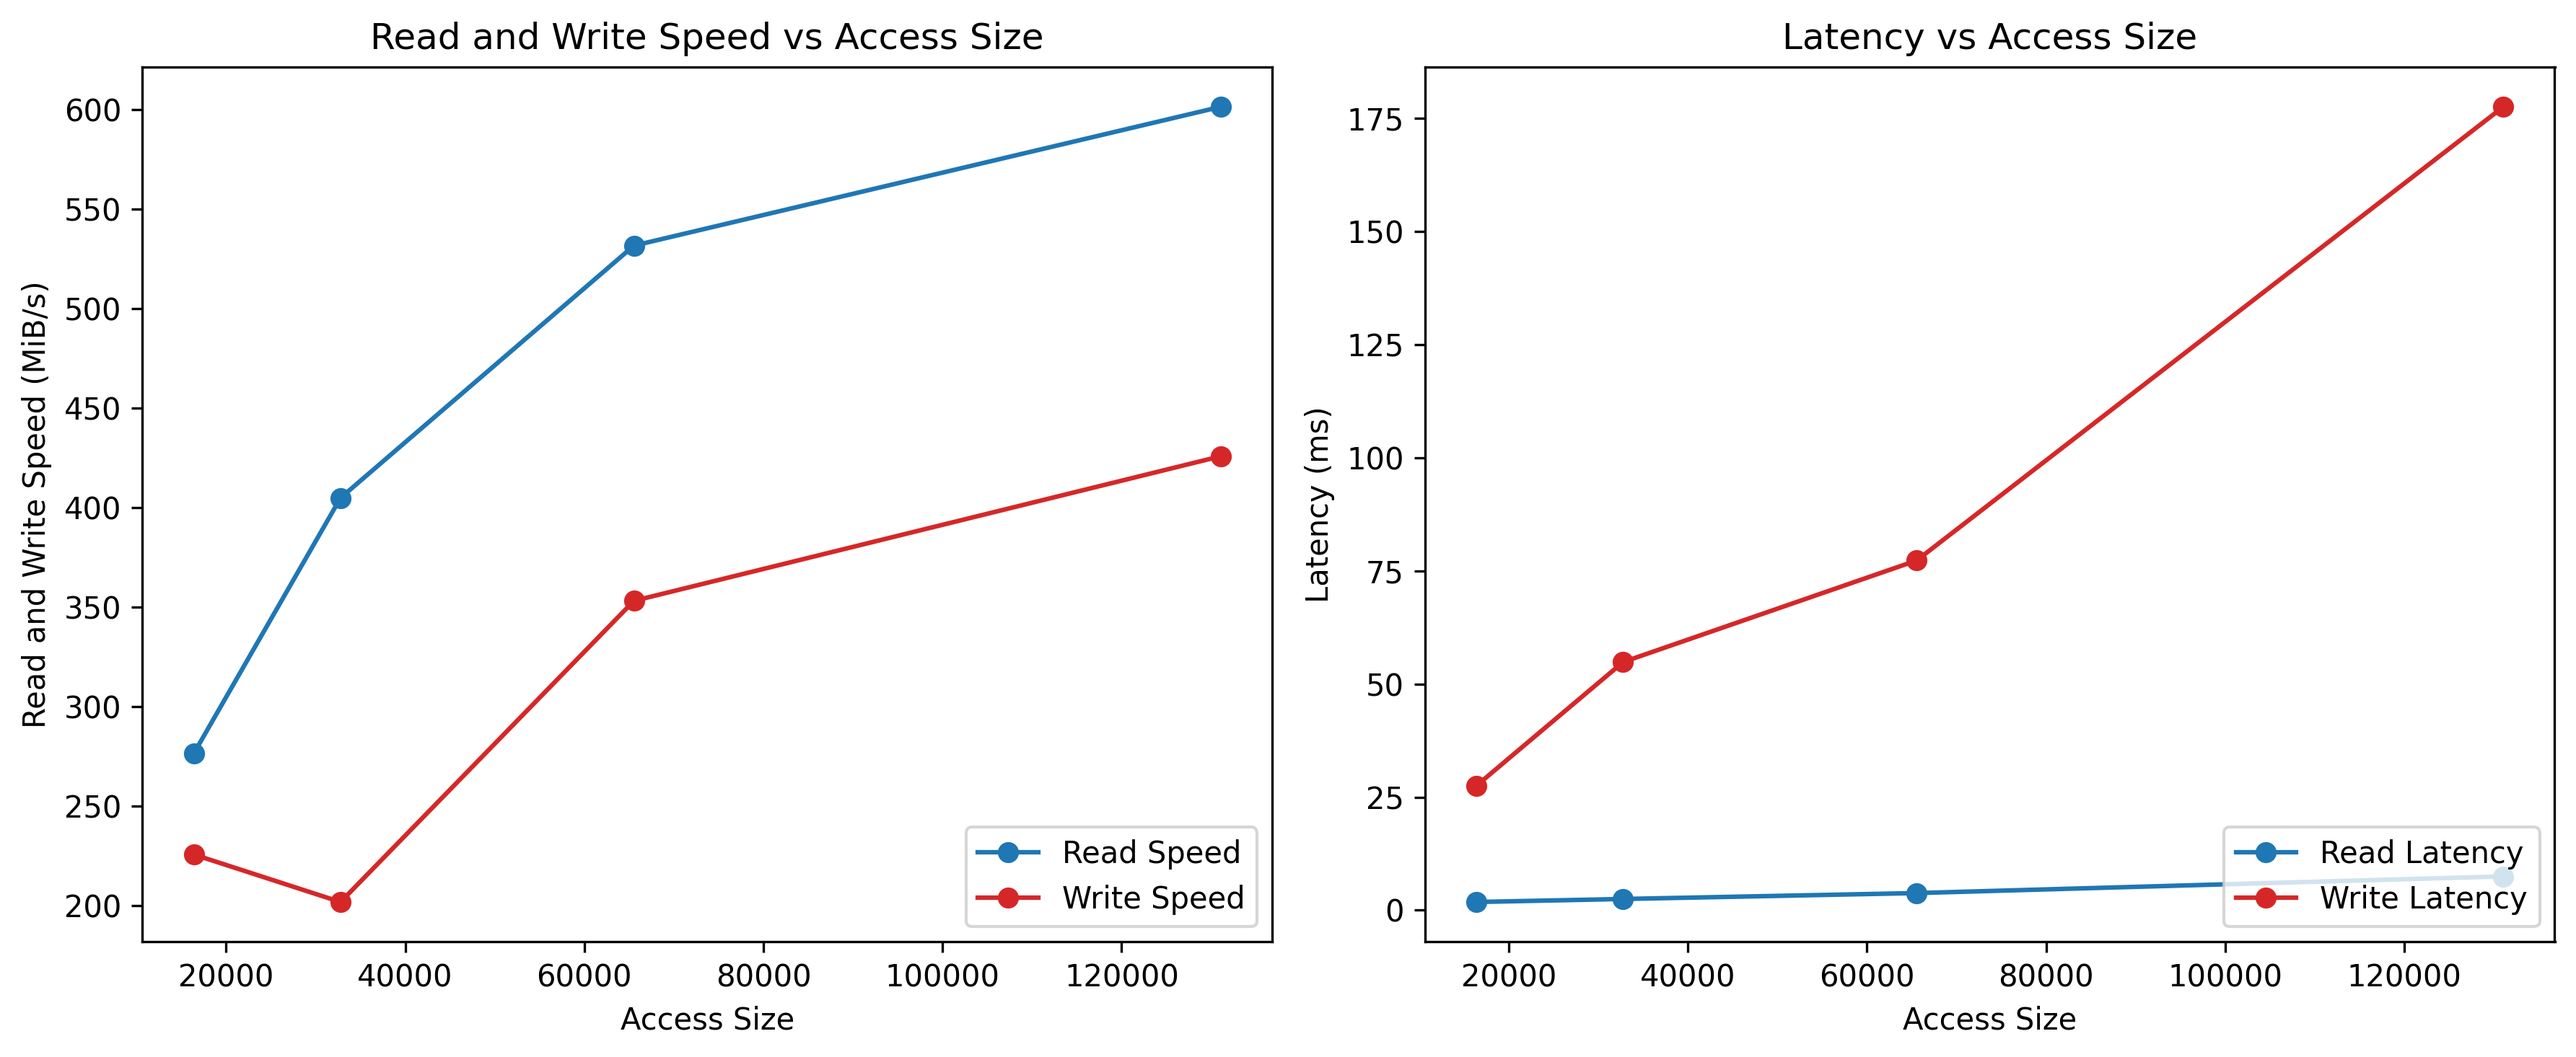
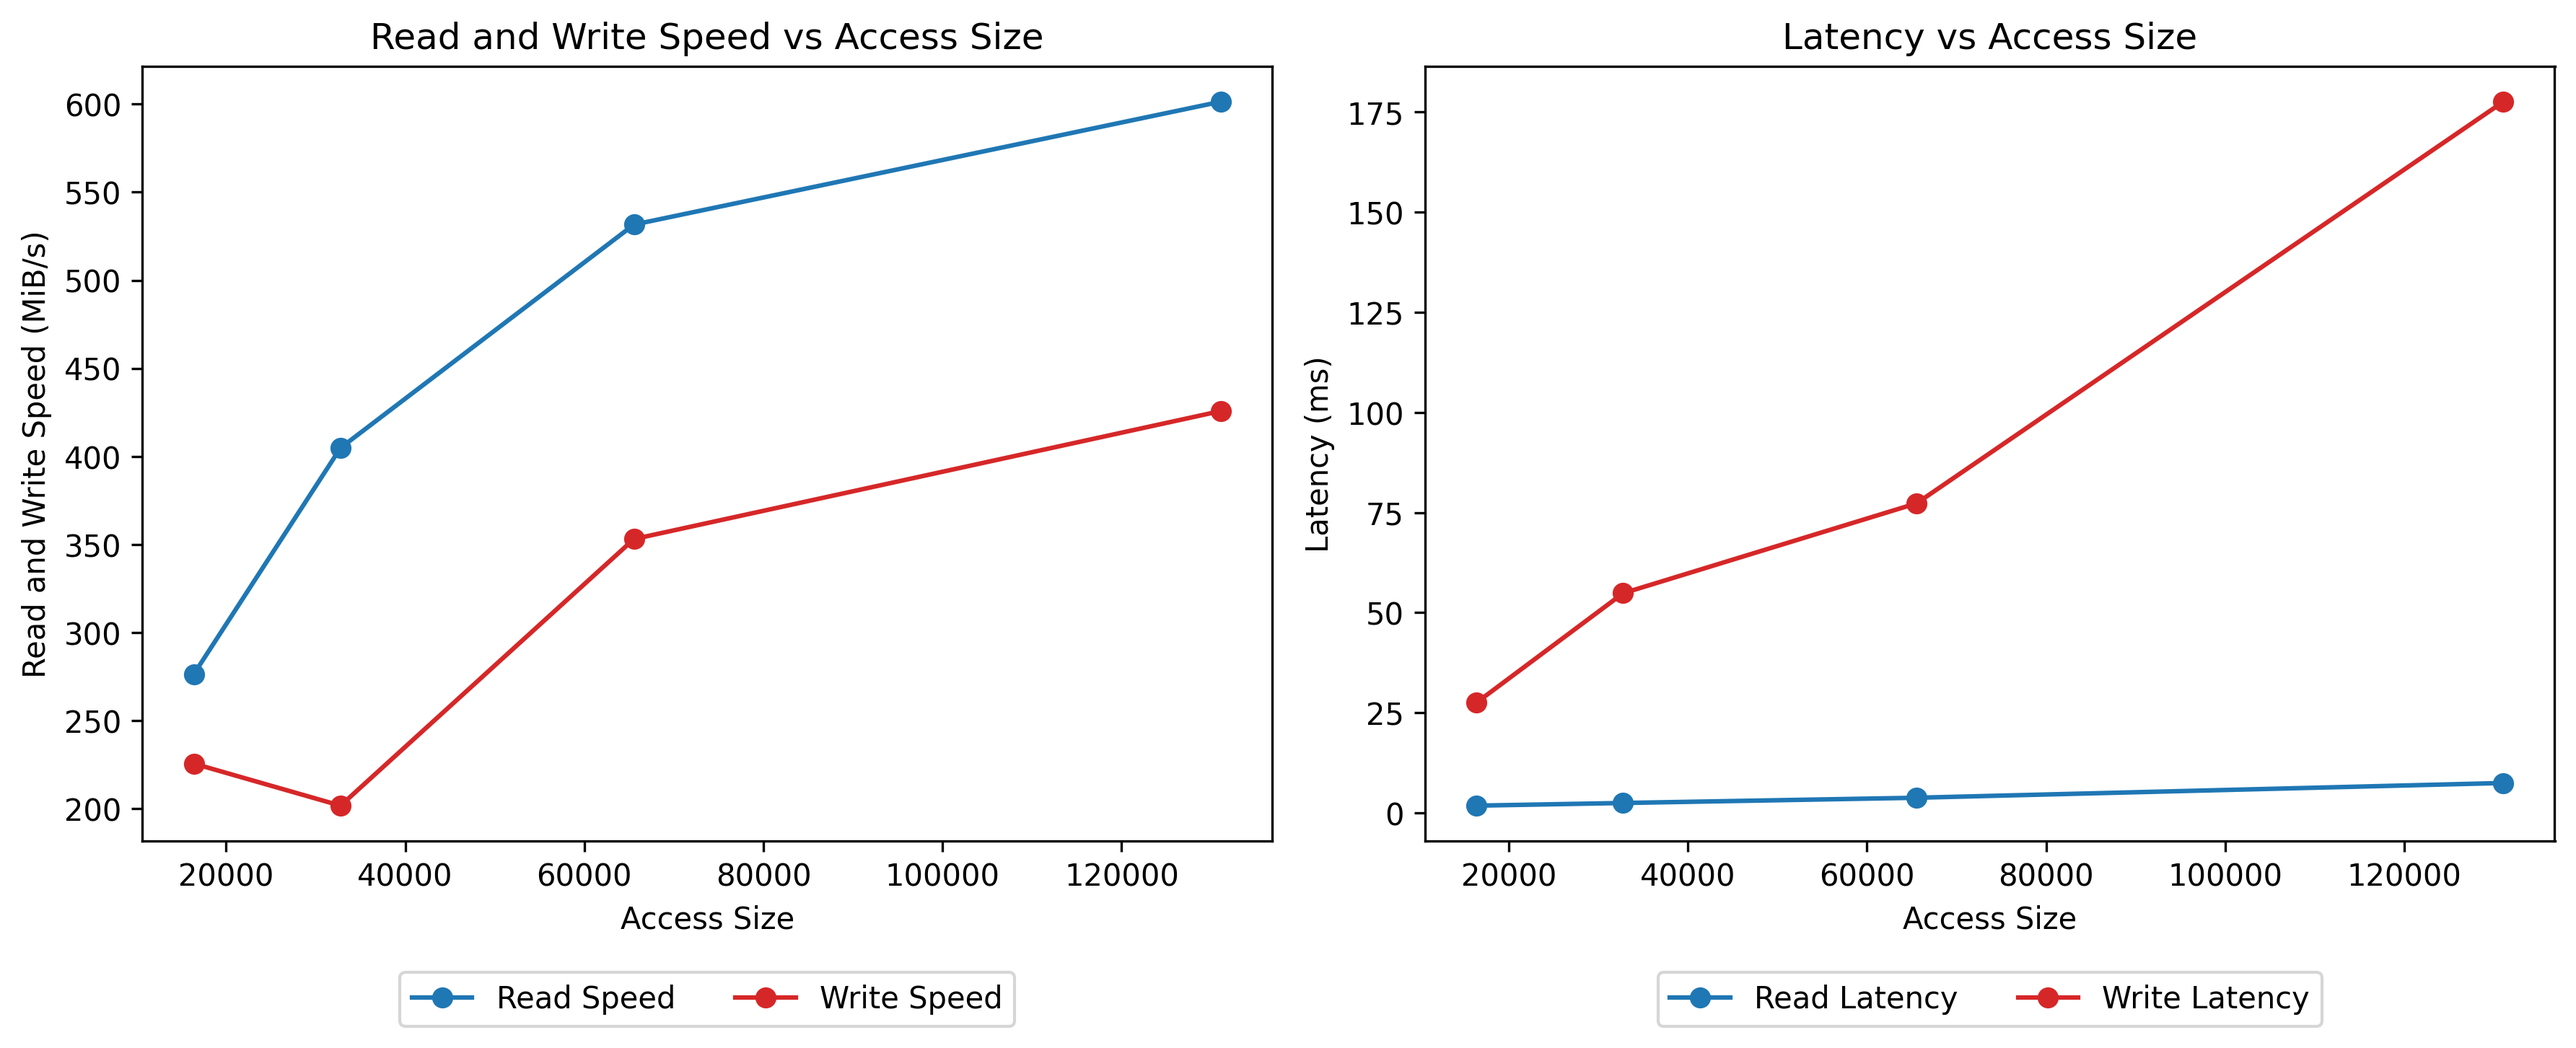
Updated README.md for MatrixMultiplication and SSD-Profling

diff --git a/SSD-Profiling/graph.py b/SSD-Profiling/graph.py
@@ -17,8 +17,8 @@ if __name__ == "__main__":
     x = data[x_header]
     y1 = data['Read Speed']
     y2 = data['Write Speed']
-    y1_2 = data['Read Latency'] / 1e6  # Convert to ms from ns
-    y2_2 = data['Write Latency'] / 1e6 # Convert to ms from ns
+    y1_2 = data['Read Latency']/1e6  # Convert to ms from ns
+    y2_2 = data['Write Latency']/1e6 # Convert to ms from ns
 
     if sys.argv[1].strip() == "plot_both":
         # Create a figure and two subplots horizontally
@@ -30,8 +30,10 @@ if __name__ == "__main__":
         ax1.plot(x, y1, label='Read Speed', color='tab:blue', marker='o')
         ax1.plot(x, y2, label='Write Speed', color='tab:red',  marker='o')
         ax1.tick_params(axis='y')
-        ax1.legend(loc='lower right')
         ax1.set_title('Read and Write Speed vs ' + x_header)
+
+        # Move legend below the first subplot
+        ax1.legend(loc='upper center', bbox_to_anchor=(0.5, -0.15), ncol=2)
 
         # Plot on the second subplot (Latency)
         ax2.set_xlabel(x_header)
@@ -39,8 +41,10 @@ if __name__ == "__main__":
         ax2.plot(x, y1_2, label='Read Latency', color='tab:blue', marker='o')
         ax2.plot(x, y2_2, label='Write Latency', color='tab:red', marker='o')
         ax2.tick_params(axis='y')
-        ax2.legend(loc='lower right')
         ax2.set_title('Latency vs ' + x_header)
+
+        # Move legend below the second subplot
+        ax2.legend(loc='upper center', bbox_to_anchor=(0.5, -0.15), ncol=2)
 
         # Adjust layout to avoid overlapping
         plt.tight_layout()
@@ -51,7 +55,7 @@ if __name__ == "__main__":
         # Optionally, you can clear the figure
         plt.close(fig)
 
-    elif sys.argv[1].strip() == "combine_both":
+    elif sys.argv[1].strip() == "combine_rw":
         # Create a figure with two subplots (1 row, 2 columns)
         fig, (ax1, ax2) = plt.subplots(1, 2, figsize=(12, 6))
 
@@ -69,15 +73,12 @@ if __name__ == "__main__":
         ax2.tick_params(axis='y')
         ax2.set_title('Read/Write Latency')
 
-        # Set a common title for the figure
-        fig.suptitle(x_header + ' vs Speed and Latency Metrics')
-
-        # Add legends below each subplot
-        ax1.legend(loc='upper left')
-        ax2.legend(loc='upper left')
+        # Add legends at the center of each subplot
+        ax1.legend(loc='upper center', bbox_to_anchor=(0.5, -0.15), ncol=1)
+        ax2.legend(loc='upper center', bbox_to_anchor=(0.5, -0.15), ncol=1)
 
         # Adjust layout to prevent overlapping
-        plt.tight_layout(rect=[0, 0, 1, 0.95])
+        plt.tight_layout(rect=[0, 0, 1, 0.85])  # Adjust the rect to provide space for legends
 
         # Save the plot as an image file (e.g., PNG format)
         plt.savefig('plot.png', format='png', dpi=300, bbox_inches='tight')

diff --git a/SSD-Profiling/README.md b/SSD-Profiling/README.md
@@ -1,4 +1,28 @@
-# SSD Profiling Project
+## SSD Profiling Project
+
+## Table of Contents
+- [SSD Profiling Project](#ssd-profiling-project)
+- [Table of Contents](#table-of-contents)
+- [Project Highlights](#project-highlights)
+- [Overview](#overview)
+- [FIO Tool Background](#fio-tool-background)
+- [Key FIO Command Line Options for this Project](#key-fio-command-line-options-for-this-project)
+- [Experiment 1: Impact of Data Access Size](#experiment-1-impact-of-data-access-size)
+  - [FIO Configuration Overview](#fio-configuration-overview)
+  - [Experimental Results](#experimental-results)
+  - [Key Analysis](#key-analysis)
+- [Experiment 2: Impact of Read/Write Intensity](#experiment-2-impact-of-readwrite-intensity)
+  - [FIO Configuration Overview](#fio-configuration-overview-1)
+  - [Experimental Results](#experimental-results-1)
+  - [Key Analysis](#key-analysis-1)
+- [Experiment 3: I/O Queue Length](#experiment-3-io-queue-length)
+  - [FIO Configuration Overview](#fio-configuration-overview-2)
+  - [Experimental Results](#experimental-results-2)
+  - [Key Analysis](#key-analysis-2)
+- [Comparison to D7-P5600 SSD](#comparison-to-d7-p5600-ssd)
+  - [FIO Configuration Overview](#fio-configuration-overview-3)
+  - [Comparison - Sequential Read](#comparison---sequential-read)
+- [Getting Started](#getting-started)
 
 ## Project Highlights
 
@@ -20,18 +44,75 @@ FIO (Flexible I/O Tester) is a popular benchmarking tool used to measure and sim
 For more details, visit the [FIO GitHub repository](https://github.com/axboe/fio).
 
 ## Key FIO Command Line Options for this Project
-- `--bs=<int>`: sets the block size for each I/O operation during testing
-- `--rw=<operation>`: sets the read/write operation. Let operation = `randread` or `randwrite` for random testing
-- `--iodepth=<int>`: sets the maximum number of requests that can be queued
-- `--size=<int>`: sets the size limit. You can use `GiB`, `MiB`, or `KiB` instead of 1024^x
+- **`--bs=<int>`**: Sets the block size for each I/O operation during testing.
+- **`--rw=<operation>`**: Sets the read/write operation. Let operation = `randread` or `randwrite` for random testing.
+- **`--iodepth=<int>`**: Sets the maximum number of requests that can be queued.
+- **`--size=<int>`**: Sets the size limit. You can use `GiB`, `MiB`, or `KiB` instead of 1024^x.
+- **`direct=1`**: Enforces direct access to SSD without caching.
 
-## Data Access Size
+## Experiment 1: Impact of Data Access Size
+### FIO Configuration Overview
+- **`--bs=<int>`**: Varied over the set `{16KiB, 32KiB, 64KiB, 128 KiB}`
+- **`--iodepth=32`**: Specifies the number of I/O operations that can be in progress. This value has been chosen such that latency will not be impacted by an insufficient or excessive queue size.
+- **`--size=2GiB`**: Limits reads/writes to 2 gigabytes.
+- **`--runtime=3`+`--time_based`**: Runs each FIO execution for 3 seconds. This will read/write the file multiple times if appropriate.
 
-## Read/Write Intensity
+### Experimental Results
+![Access Size Results](images/access-size.png)
 
-## I/O Queue Length
+### Key Analysis
+1. Both read and write bandwidths are  **significantly increased** by increases to access size.
+2. Higher access sizes create **bottlenecks** for the write operation, as seen by the data point which falls instead of dropping after an access size increase.
+3. Write latency is **significantly increased** by increases in access size. This is because random writes to the **same location** cannot be parallelized.
+4. Read latency is **barely impacted** by access size. This is because random reads to the **same location** do not conflict.
+5. Both reads and writes have queue wait times **rise** when access size increases. This is because each operation encompasses **more** data and thus **takes longer**.
+6. We expect that with **higher** access size, there will be a **lower** IOPS, as each operation will take longer.
 
-## Comparison to Intel Data Center NVME SSD D7-P5600
+## Experiment 2: Impact of Read/Write Intensity
+### FIO Configuration Overview
+- **`--bs=64KiB`**: Allows reasonable speed/latency impacts from block size so that read/write intensity's impact can be revealed.
+- **`--iodepth=32`**: Specifies the number of I/O operations that can be in progress. This value has been chosen such that latency will not be impacted by an insufficient or excessive queue size.
+- **`--size=1GiB`**: Limits reads/writes to 1 gigabyte.
+- **`--runtime=3`+`--time_based`**: Runs each FIO execution for 3 seconds. This will read/write the file multiple times if appropriate.
+
+### Experimental Results
+![Read/Write Intensity Results](images/read-write-percent.png)
+
+### Key Analysis
+1. A **higher** read percentage corresponds to a **higher** bandwidth due to the lack of write conflicts previously discussed.
+2. Latency is also **drastically decreased** with increases to read percentage. With all other factors held the same, reads are simply faster. Therefore, each operation will be processed quicker, leading to **reduced** execution and queue waiting times.
+
+## Experiment 3: I/O Queue Length
+### FIO Configuration Overview
+- **`--bs=64KiB`**: Allows reasonable speed/latency impacts from block size so that read/write intensity's impact can be revealed.
+- **`--iodepth=<int>`**: Varied over the set `{1, 4, 16, 64, 256, 1024}`
+- **`--size=1GiB`**: Limits reads/writes to 1 gigabyte.
+- **`--runtime=3`+`--time_based`**: Runs each FIO execution for 3 seconds. This will read/write the file multiple times if appropriate.
+
+### Experimental Results
+![Queue Depth Results](images/queue-depth.png)
+
+### Key Analysis
+1. Read speed/bandwidth is **highly improved** by increases to queue depth up to a point. This is because reads are completed fast enough to utilize the next operations.
+2. At a certain point, read speed becomes **negatively impacted** by the queue depth. This is because although SSDs support multi-access, there is a limit. Eventually, adding additional reads will create a bottleneck.
+3. Read speed is **negatively impacted** or **barely improved** by increases to queuing depth. This is because there will be performance decreases when more operations attempt to write to the same memory, although independent operations will increase bandwidth.
+4. Again, latency also increases as we add more elements to the queue. This is because of the increase waiting time spent in the queue.
+
+## Comparison to D7-P5600 SSD
+### FIO Configuration Overview
+- **`--rw=read`**: Reads allow maximum performance and sequential reads are even faster.
+- **`--bs=16384KiB`**: Maximizes the amount of data submitted at once.
+- **`--iodepth=128`**: Uses a higher queue capacity to feed constant data.
+- **`--size=2GiB`**: Limits reads/writes to 2 gigabytes.
+- **`--runtime=30`+`--time_based`**: Runs the experiment for 30 seconds.
+
+### Comparison - Sequential Read
+|     Drive     |  Bandwidth (MB/s) |
+| ------------- | ----------------- |
+| SSDPEKNW512G8 |      1814.31      |
+|   D7-P5600    |      3500.00      |
+
+As expected, the industry-standard SSD is much faster even with my optimizations. Further information on the D7-P5600 can be found [here](https://www.solidigm.com/products/data-center/d7/p5600.html).
 
 ## Getting Started
 
@@ -60,6 +141,7 @@ For more details, visit the [FIO GitHub repository](https://github.com/axboe/fio
    - `data_access`: Test various data access sizes
    - `rw_cent`: Test various read read/write ratios
    - `queue_depth`: Test various queue depths
+   - `max_performance`: Test max possible performance
 
    Example:
    ```

diff --git a/MatrixMultiplication/README.md b/MatrixMultiplication/README.md
@@ -1,25 +1,25 @@
-# Matrix Multiplication Optimization Project
+## Matrix Multiplication Optimization Project
 
 ## Table of Contents
 - [Matrix Multiplication Optimization Project](#matrix-multiplication-optimization-project)
-  - [Table of Contents](#table-of-contents)
-  - [Project Highlights](#project-highlights)
-  - [Overview](#overview)
-  - [Implementation Details](#implementation-details)
-    - [LIL (List of Lists) Sparse Matrix Storage](#lil-list-of-lists-sparse-matrix-storage)
-    - [Optimization Techniques](#optimization-techniques)
-  - [Algorithms and Implementations](#algorithms-and-implementations)
-    - [Sparse-Sparse Matrix Multiplication](#sparse-sparse-matrix-multiplication)
-    - [Dense-Sparse Matrix Multiplication](#dense-sparse-matrix-multiplication)
-    - [Dense-Dense Matrix Multiplication](#dense-dense-matrix-multiplication)
-  - [Results and Analysis](#results-and-analysis)
-    - [Sparse-Sparse Matrix Multiplication](#sparse-sparse-matrix-multiplication-1)
-    - [Dense-Sparse Matrix Multiplication](#dense-sparse-matrix-multiplication-1)
-    - [Dense-Dense Matrix Multiplication](#dense-dense-matrix-multiplication-1)
-    - [Sample Performance Comparison Table](#sample-performance-comparison-table)
-  - [Getting Started](#getting-started)
-  - [Compiler Flags](#compiler-flags)
-  - [Contributors](#contributors)
+- [Table of Contents](#table-of-contents)
+- [Project Highlights](#project-highlights)
+- [Overview](#overview)
+- [Implementation Details](#implementation-details)
+  - [LIL (List of Lists) Sparse Matrix Storage](#lil-list-of-lists-sparse-matrix-storage)
+  - [Optimization Techniques](#optimization-techniques)
+- [Algorithms and Implementations](#algorithms-and-implementations)
+  - [Sparse-Sparse Matrix Multiplication](#sparse-sparse-matrix-multiplication)
+  - [Dense-Sparse Matrix Multiplication](#dense-sparse-matrix-multiplication)
+  - [Dense-Dense Matrix Multiplication](#dense-dense-matrix-multiplication)
+- [Results and Analysis](#results-and-analysis)
+  - [Sparse-Sparse Matrix Multiplication](#sparse-sparse-matrix-multiplication-1)
+  - [Dense-Sparse Matrix Multiplication](#dense-sparse-matrix-multiplication-1)
+  - [Dense-Dense Matrix Multiplication](#dense-dense-matrix-multiplication-1)
+  - [Sample Performance Comparison Table](#sample-performance-comparison-table)
+- [Getting Started](#getting-started)
+- [Compiler Flags](#compiler-flags)
+- [Contributors](#contributors)
 
 ## Project Highlights
 
